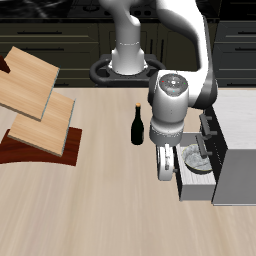
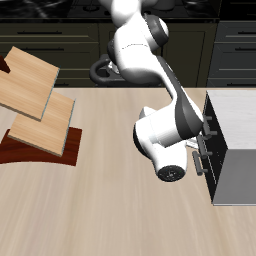
feat(skills): close-drawer primitive cracked x3 — 37/40 = 92.5% (B398)
x3 (bowl into bottom drawer + close) passes with official success after the
capability round: the diagnosis chain showed the bowl placed inside cleanly
but the close push exhausted the 1000-tick horizon at 910. The fix — leaner
early phases (coarser tolerances, fewer waypoints) leaving ~250 ticks, then a
closed-gripper push on the drawer's front panel until qpos returns to zero —
is now a verified primitive. "Drawer closing" joins the libero-manipulation
skill with the step-budget rule. Running total: 37/40 = 92.5%.

Changed region(s): [[0.4062, 0.0, 0.875, 0.8125]]

diff --git a/.moss/skills/libero-manipulation/SKILL.md b/.moss/skills/libero-manipulation/SKILL.md
@@ -41,6 +41,16 @@ All patterns were discovered by Moss on the real benchmark and verified with
    object bottom is just above the target surface, open, retract.
 4. Wide bowls: the plate/pan target needs x-y centering within the target radius.
 
+## Drawer closing (verified x3, after place-inside)
+
+After placing an object inside an open drawer: lift the arm clear, then with
+the gripper CLOSED, push the drawer's front panel from its robot-side face
+along -slide_axis (opposite of the opening pull). Waypoints: above the panel
+face, contact on the face, sustained push until drawer qpos returns to ~0.
+Budget matters: open + grasp + place can consume ~700 of the 1000-tick
+horizon — keep early phases lean (coarser tolerances, fewer waypoints) so the
+close push has ~250 ticks. Verify qpos ≈ 0 at the end.
+
 ## Button press (verified t7)
 
 Approach above the button, descend to contact, hold; verify the button joint qpos
